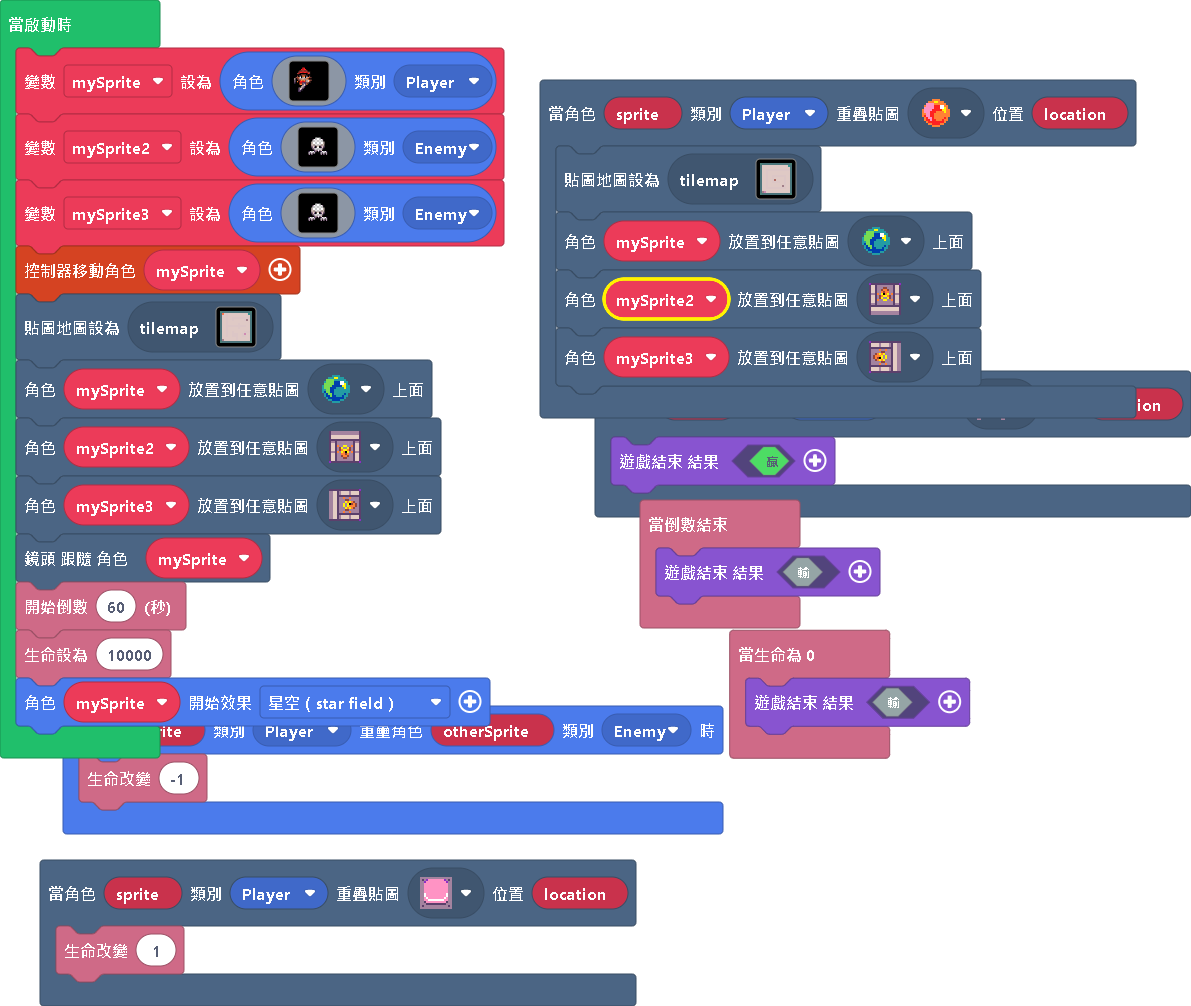
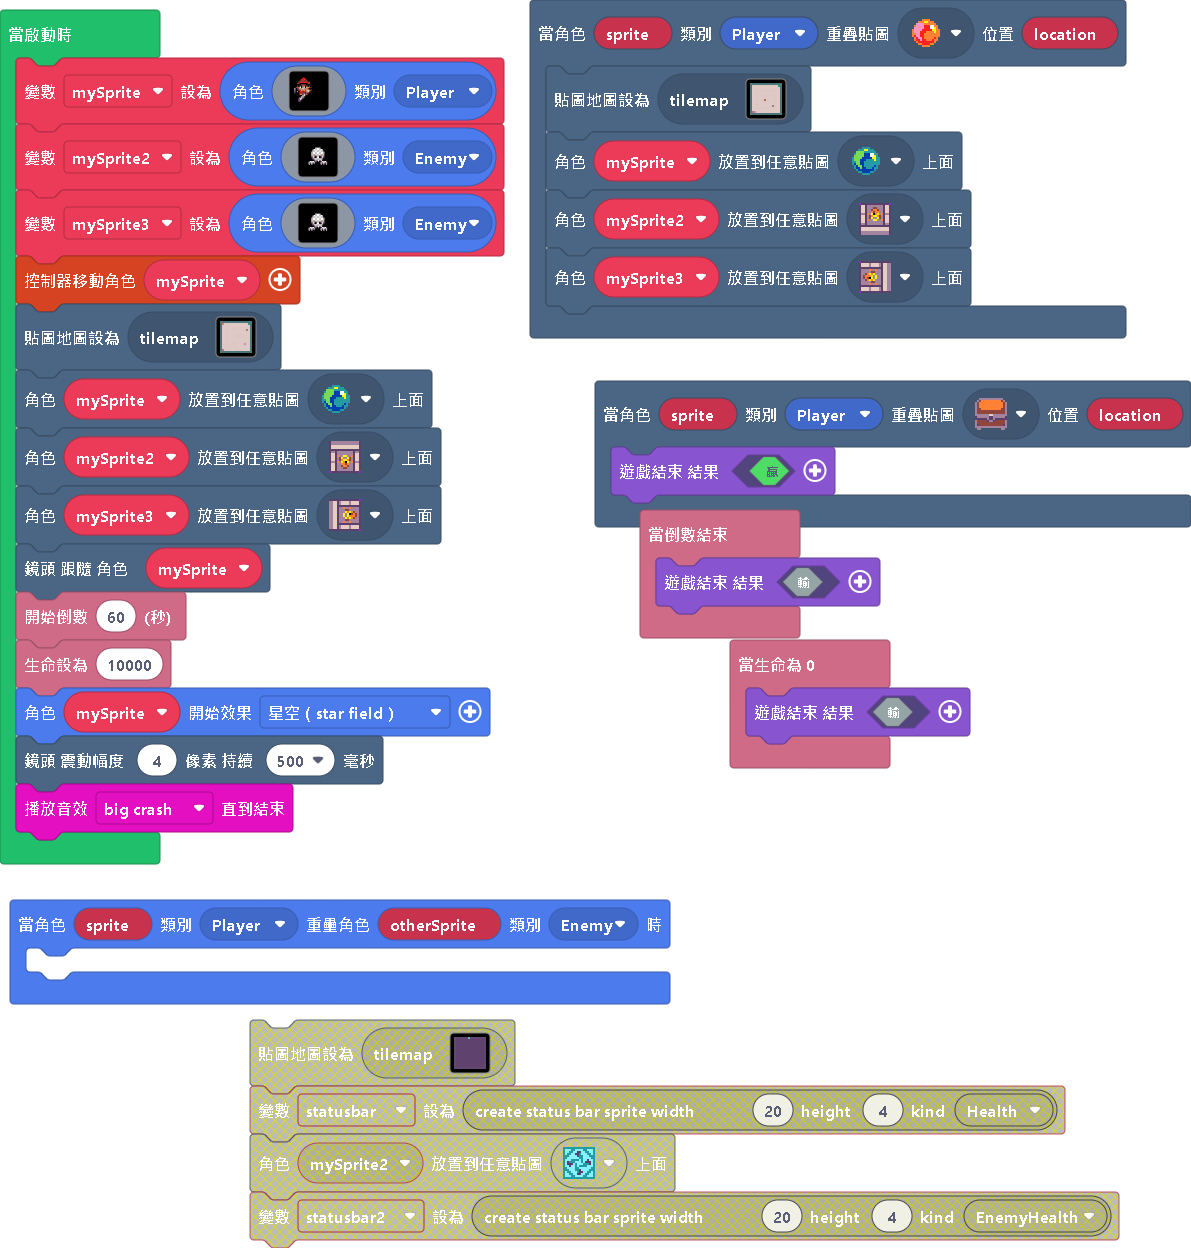
12

diff --git a/tilemap.g.ts b/tilemap.g.ts
@@ -81,6 +81,25 @@ namespace myTiles {
 2 . . . . . . . . . . . . . . 2 
 2 2 2 2 2 2 2 2 2 2 2 2 2 2 2 2 
 `, [myTiles.transparency16,sprites.dungeon.greenOuterNorthEast,sprites.dungeon.greenOuterSouthEast,sprites.dungeon.greenOuterSouthWest,sprites.dungeon.greenOuterEast0,sprites.dungeon.greenOuterSouth0,sprites.dungeon.greenOuterWest1,sprites.dungeon.greenOuterNorthWest,sprites.dungeon.greenOuterNorth0,sprites.dungeon.floorLight2,sprites.dungeon.floorLight0,sprites.dungeon.buttonPink,sprites.dungeon.chestClosed,sprites.dungeon.collectibleBlueCrystal,sprites.dungeon.doorLockedSouth,sprites.dungeon.doorLockedEast], TileScale.Sixteen);
+            case "層級5":
[1 lines of base64/hex data omitted]
+. . . . . . . . . . . . . . . . 
+. . . . . . . . . . . . . . . . 
+. . . . . . . . . . . . . . . . 
+. . . . . . . . . . . . . . . . 
+. . . . . . . . . . . . . . . . 
+. . . . . . . . . . . . . . . . 
+. . . . . . . . . . . . . . . . 
+. . . . . . . . . . . . . . . . 
+. . . . . . . . . . . . . . . . 
+. . . . . . . . . . . . . . . . 
+. . . . . . . . . . . . . . . . 
+. . . . . . . . . . . . . . . . 
+. . . . . . . . . . . . . . . . 
+. . . . . . . . . . . . . . . . 
+. . . . . . . . . . . . . . . . 
+. . . . . . . . . . . . . . . . 
+`, [myTiles.transparency16,sprites.dungeon.darkGroundNorthWest0,sprites.dungeon.darkGroundSouthEast0,sprites.dungeon.darkGroundSouthWest0,sprites.dungeon.darkGroundNorthEast0,sprites.dungeon.darkGroundNorth,sprites.dungeon.darkGroundWest,sprites.dungeon.darkGroundSouth,sprites.dungeon.darkGroundEast,sprites.dungeon.darkGroundCenter,sprites.dungeon.collectibleInsignia], TileScale.Sixteen);
         }
         return null;
     })

diff --git a/main.ts b/main.ts
@@ -1,6 +1,3 @@
-scene.onOverlapTile(SpriteKind.Player, sprites.dungeon.buttonPink, function (sprite, location) {
-    info.changeLifeBy(1)
-})
 info.onCountdownEnd(function () {
     game.over(false)
 })
@@ -17,7 +14,7 @@ scene.onOverlapTile(SpriteKind.Player, sprites.dungeon.collectibleRedCrystal, fu
     tiles.placeOnRandomTile(mySprite3, sprites.dungeon.doorLockedEast)
 })
 sprites.onOverlap(SpriteKind.Player, SpriteKind.Enemy, function (sprite, otherSprite) {
-    info.changeLifeBy(-1)
+	
 })
 let mySprite3: Sprite = null
 let mySprite2: Sprite = null
@@ -109,3 +106,5 @@ scene.cameraFollowSprite(mySprite)
 info.startCountdown(60)
 info.setLife(10000)
 mySprite.startEffect(effects.starField)
+scene.cameraShake(4, 500)
+music.bigCrash.playUntilDone()
